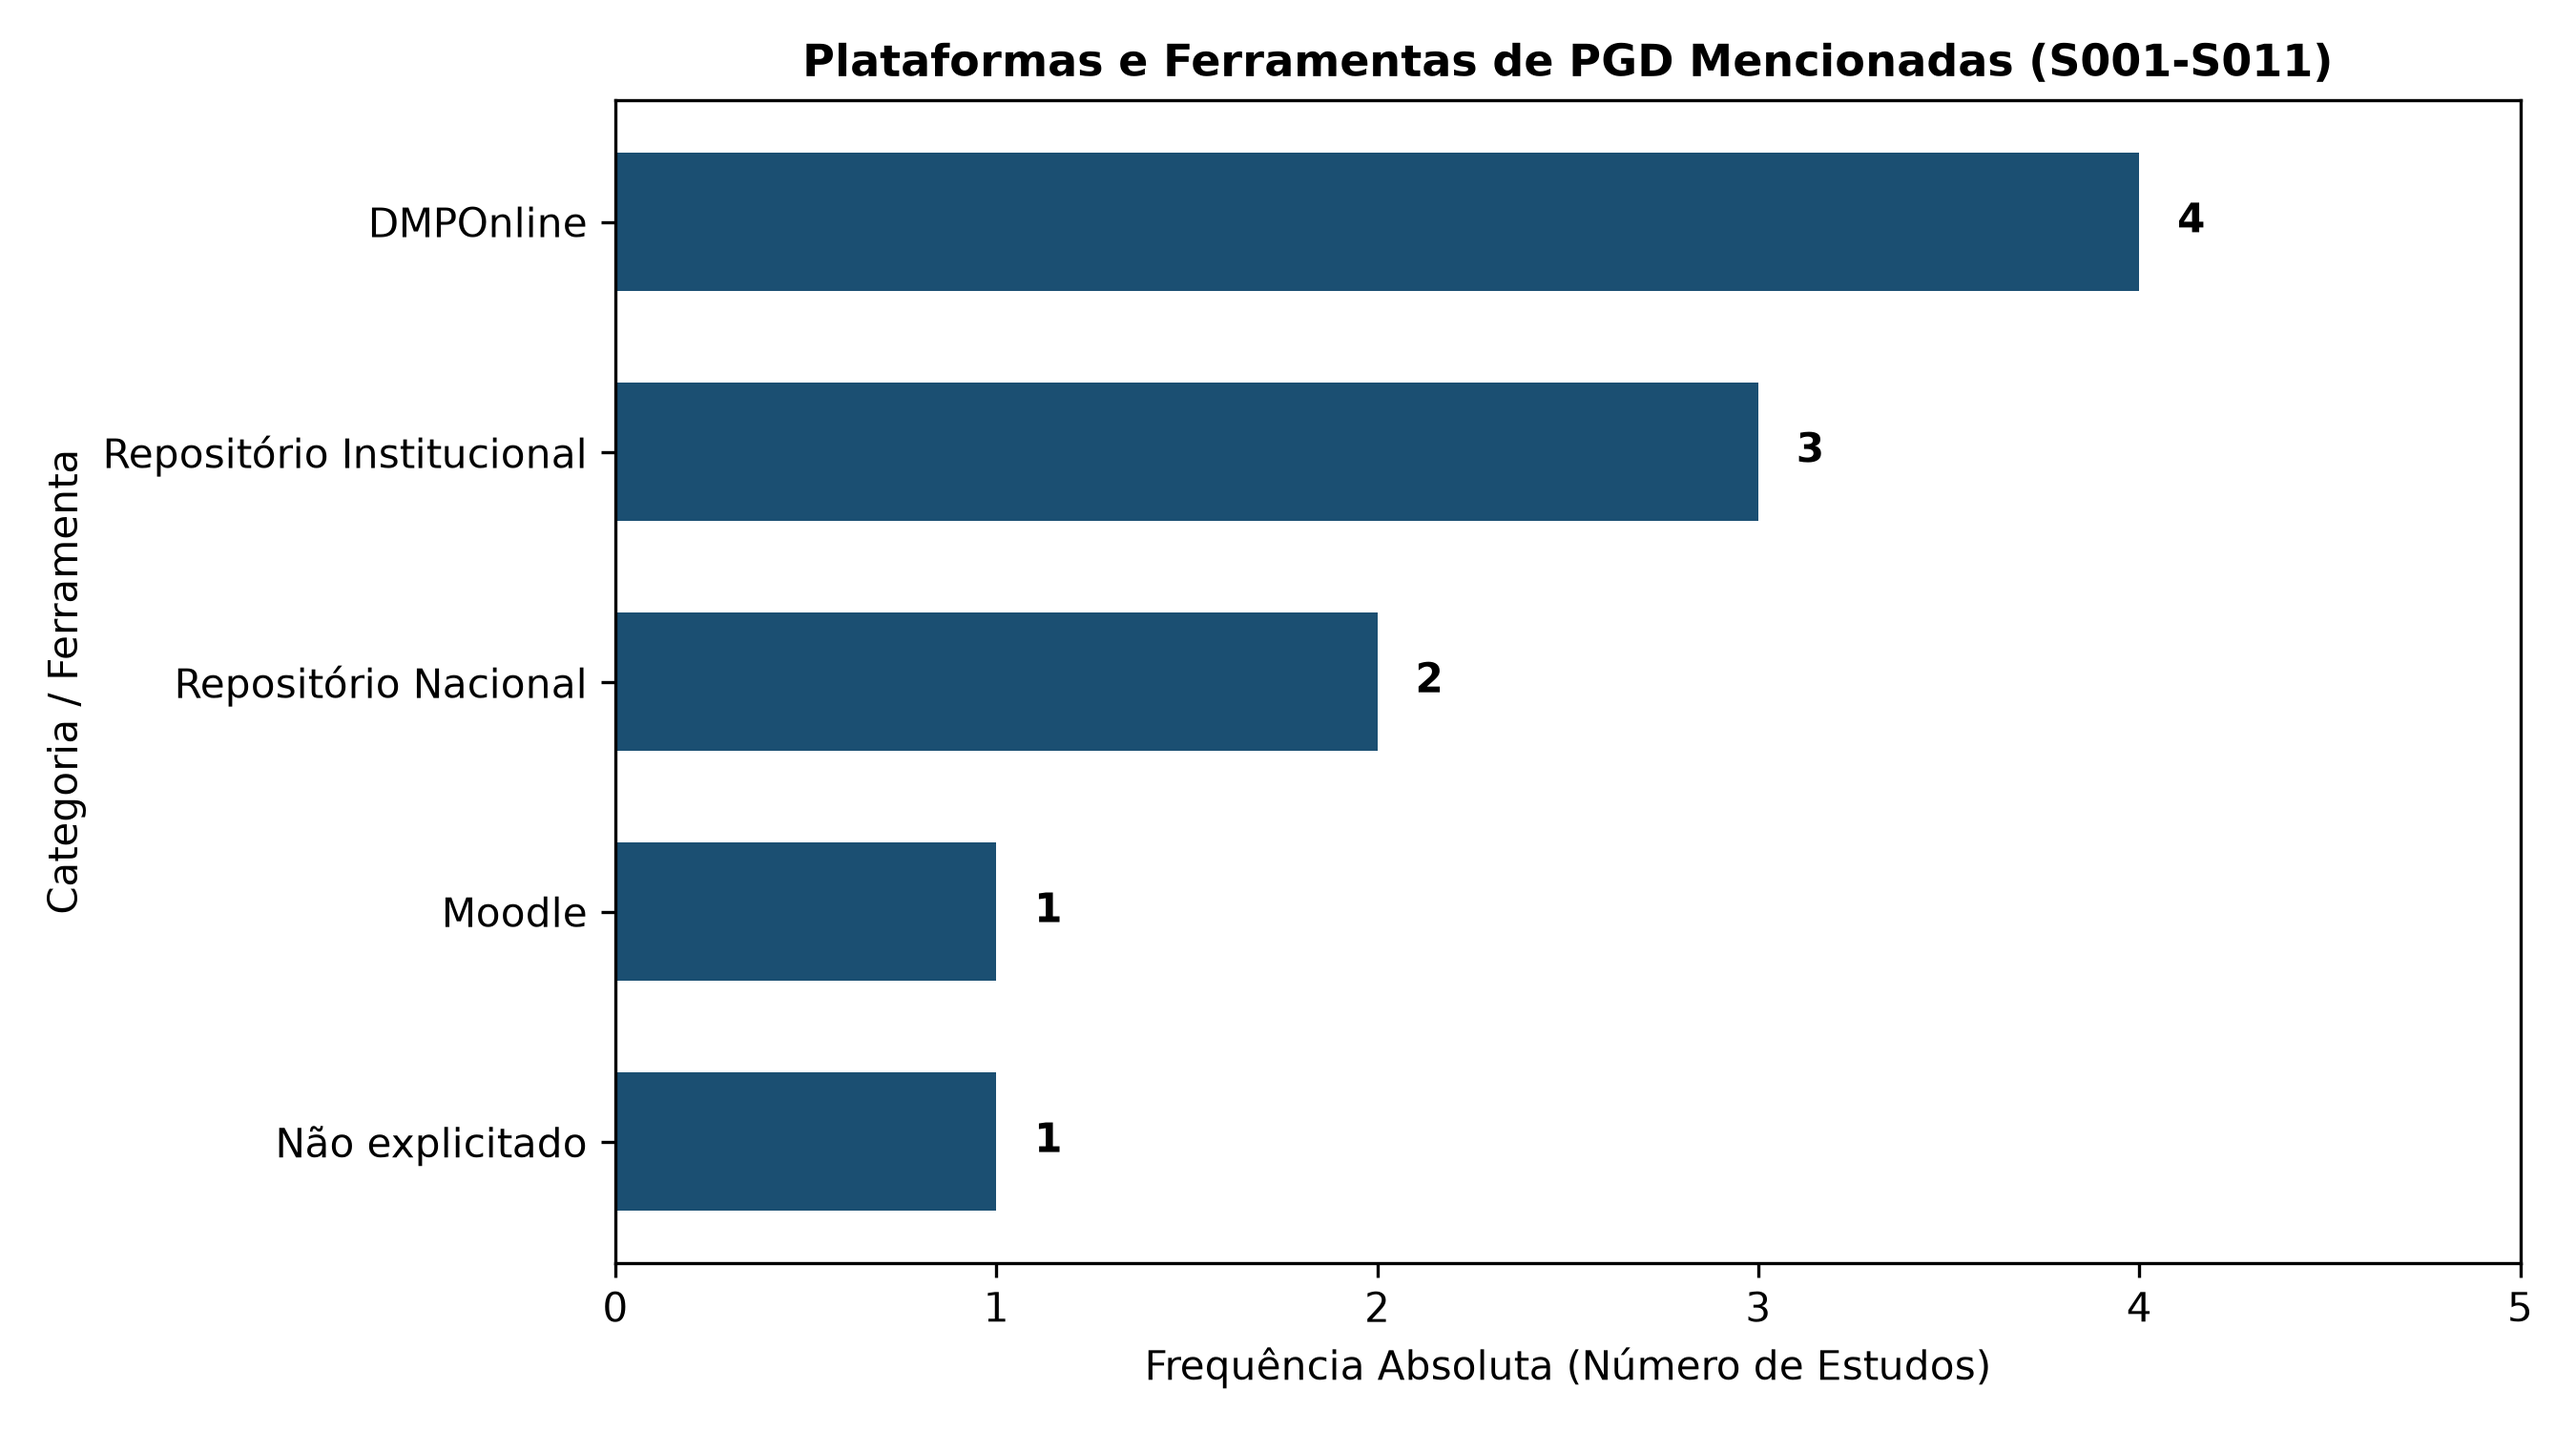
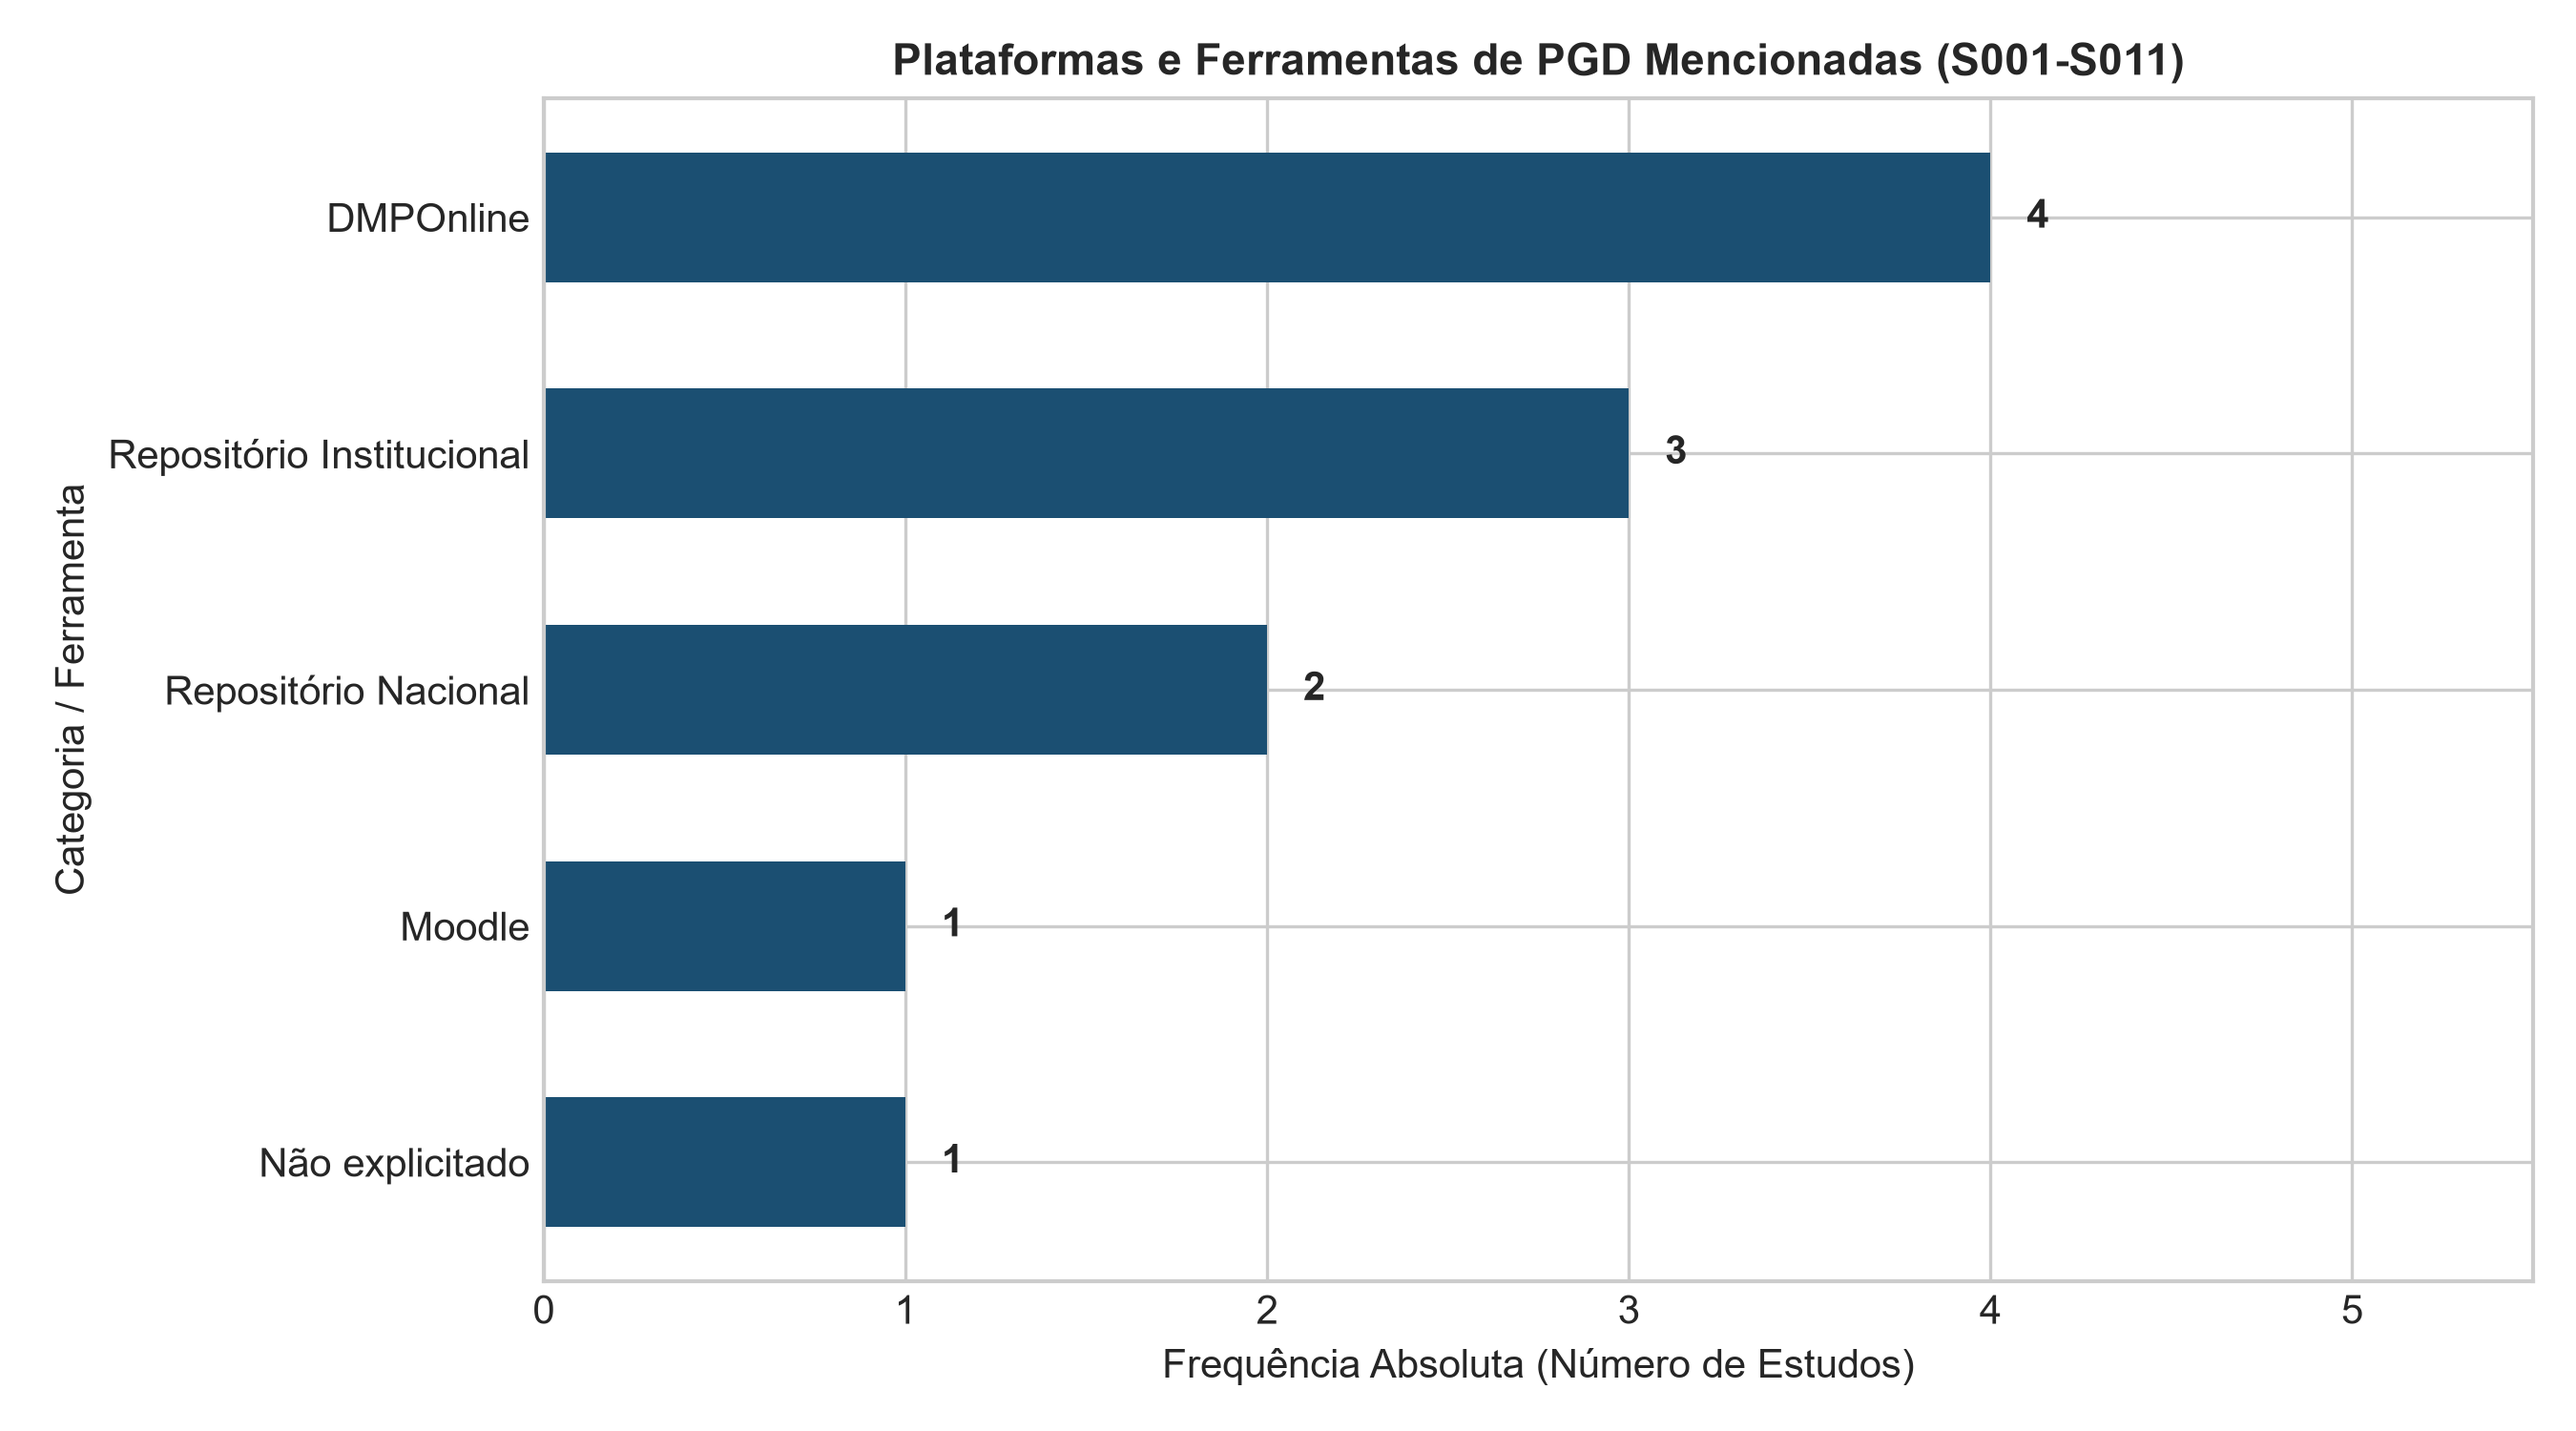
Adiciona figuras definitivas de ferramentas e delineamentos metodologicos

diff --git a/scripts/44_gera_todas_figuras_tese.py b/scripts/44_gera_todas_figuras_tese.py
@@ -1,0 +1,50 @@
+import pandas as pd
+import matplotlib.pyplot as plt
+import os
+
+os.makedirs("documentos/figuras", exist_ok=True)
+plt.style.use('seaborn-v0_8-whitegrid' if 'seaborn-v0_8-whitegrid' in plt.style.available else 'default')
+
+# --- FIGURA 1: Ferramentas e Plataformas de PGD ---
+cat_ferramentas = ["DMPOnline", "Repositório Institucional", "Repositório Nacional", "Moodle", "Não explicitado"]
+freq_ferramentas = [4, 3, 2, 1, 1]
+
+plt.figure(figsize=(9, 5))
+barras1 = plt.barh(cat_ferramentas, freq_ferramentas, color="#1b4f72", height=0.55)
+plt.title("Plataformas e Ferramentas de PGD Mencionadas (S001-S011)", fontsize=11, fontweight="bold")
+plt.xlabel("Frequência Absoluta (Número de Estudos)", fontsize=10)
+plt.ylabel("Categoria / Ferramenta", fontsize=10)
+plt.gca().invert_yaxis()
+
+for barra in barras1:
+    largura = barra.get_width()
+    plt.text(largura + 0.1, barra.get_y() + barra.get_height()/2, f'{int(largura)}', 
+             va='center', ha='left', fontsize=10, fontweight='bold')
+
+plt.xlim(0, max(freq_ferramentas) + 1.5)
+plt.tight_layout()
+plt.savefig("documentos/figuras/figura_resultado_ferramentas_tese.png", dpi=300)
+plt.close()
+
+# --- FIGURA 2: Delineamento Metodológico dos Estudos ---
+cat_delineamento = ["Revisão Sistemática", "Estudo de Caso", "Pesquisa Documental", "Ensaio Metodológico"]
+freq_delineamento = [5, 3, 2, 1]
+
+plt.figure(figsize=(9, 5))
+barras2 = plt.barh(cat_delineamento, freq_delineamento, color="#117a65", height=0.55)
+plt.title("Distribuição por Delineamento Metodológico (S001-S011)", fontsize=11, fontweight="bold")
+plt.xlabel("Frequência Absoluta (Número de Estudos)", fontsize=10)
+plt.ylabel("Delineamento", fontsize=10)
+plt.gca().invert_yaxis()
+
+for barra in barras2:
+    largura = barra.get_width()
+    plt.text(largura + 0.1, barra.get_y() + barra.get_height()/2, f'{int(largura)}', 
+             va='center', ha='left', fontsize=10, fontweight='bold')
+
+plt.xlim(0, max(freq_delineamento) + 1.5)
+plt.tight_layout()
+plt.savefig("documentos/figuras/figura_resultado_delineamentos_tese.png", dpi=300)
+plt.close()
+
+print("Todas as figuras analíticas definitivas foram geradas com sucesso!")
